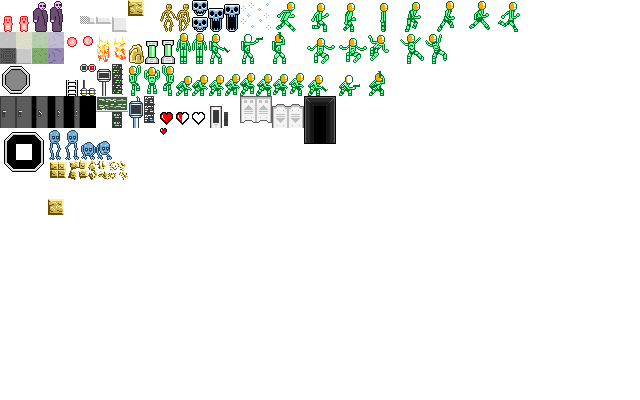
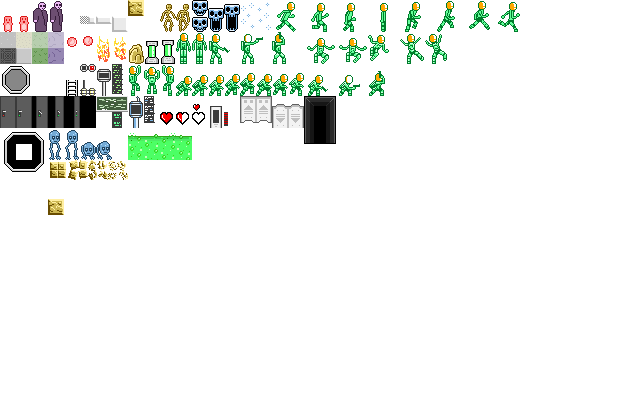
added 'zone' entities, lava sprites

Changed region(s): [[0.1875, 0.33, 0.3125, 0.42]]

diff --git a/decorations.py b/decorations.py
@@ -6,7 +6,7 @@ ALL_DECORATIONS = {}  # dec_id -> lambda(() -> Decoration)
 
 def init_decorations():
     print("initializing decorations...")
-    ALL_DECORATIONS["lightbulb"] = lambda: LightEmittingDecoration(0, 0, "lightbulb", images.LIGHT_BULB, luminosity=255, light_radius=128)
+    ALL_DECORATIONS["lightbulb"] = lambda: LightEmittingDecoration(0, 0, "lightbulb", images.LIGHT_BULB, light_radius=160)
     ALL_DECORATIONS["wire_vert"] = lambda: Decoration(0, 0, "wire_vert", images.WIRE_VERTICAL)
     ALL_DECORATIONS["chalkboard"] = lambda: Decoration(0, 0, "chalkboard", images.CHALKBOARD)
     ALL_DECORATIONS["ground_stone"] = lambda: Ground(0, 0, "ground_stone", images.STONE_GROUND)
@@ -15,6 +15,8 @@ def init_decorations():
     ALL_DECORATIONS["ground_purple"] = lambda: Ground(0, 0, "ground_purple", images.PURPLE_GROUND)
     ALL_DECORATIONS["ground_wall"] = lambda: Ground(0, 0, "ground_wall", images.WALL_GROUND)
     ALL_DECORATIONS["ground_dark"] = lambda: Ground(0, 0, "ground_dark", images.DARK_GROUND)
+    ALL_DECORATIONS["acid_full"] = lambda: LightEmittingDecoration(0, 0, "acid_full", images.ACID_FULL, light_radius=64)
+    ALL_DECORATIONS["acid_top"] = lambda: LightEmittingDecoration(0, 0, "acid_top", images.ACID_TOP_HALF, light_radius=64)
 
 
 def get_decoration(dec_id):
@@ -46,21 +48,17 @@ class Decoration(entities.Entity):
 class LightEmittingDecoration(Decoration):
     """A decoration that emits light. Should never move."""
 
-    def __init__(self, x, y, dec_id, animation, luminosity, light_radius):
+    def __init__(self, x, y, dec_id, animation, light_radius):
         Decoration.__init__(self, x, y, dec_id, animation)
-        self._luminosity = luminosity  # brightness level from 0 to 255
-        self.radius = light_radius  # radius in pixels
+        self.radius = light_radius      # radius in pixels
         self.categories.update(["light_source"])
 
     def light_profile(self):
         """returns: integers (x, y, luminosity, radius), or None if luminosity
             or radius is zero
         """
-        if self._luminosity > 0 and self.radius > 0:
-            pos = self.center()
-            return (pos[0], pos[1], self._luminosity, self.radius)
-        else:
-            return None
+        pos = self.center()
+        return (pos[0], pos[1], 255, self.radius)
 
 
 class Ground(Decoration):

diff --git a/entities.py b/entities.py
@@ -566,6 +566,53 @@ class ReferenceEntity(Entity):
             pygame.draw.rect(screen, (100, 100, 255), self.get_rect().move(*offset), 2)
 
 
+class Zone(Entity):
+    """Invisible area that performs some effect when actors enter"""
+    def __init__(self, x, y, w, h):
+        Entity.__init__(self, x, y, w, h)
+        self.categories.update(["zone"])
+        self.debug_color = (125, 255, 125)
+        self.actors_inside = {}
+
+    def sprite(self):
+        return None
+
+    def draw(self, screen, offset=(0, 0), modifier=None):
+        key = "zone_debug_overlay:" + str(self.size()) + "_" + str(self.debug_color)
+        cached_img = images.get_cached_image(key)
+        if cached_img is None:
+            cached_img = pygame.Surface(self.size(), pygame.SRCALPHA)
+            cached_img.set_alpha(128)
+            cached_img.fill(self.debug_color)
+            images.put_cached_image(key, cached_img)
+        dest = (self.get_x() + offset[0], self.get_y() + offset[1])
+        screen.blit(cached_img, dest)
+
+    def update(self, input_state, world):
+        current_actors = set(world.get_entities_in_rect(self.get_rect(), category="actor"))
+        actors_last_frame = self.actors_inside
+
+        for actor in current_actors:
+            if actor not in actors_last_frame:
+                self.actor_entered(actor, world)
+            else:
+                self.actor_remains(actor, world)
+        for actor in actors_last_frame:
+            if actor not in current_actors:
+                self.actor_left(actor, world)
+
+        self.actors_inside = current_actors
+
+    def actor_entered(self, actor, world):
+        print("actor entered zone: ", actor)
+
+    def actor_left(self, actor, world):
+        print("actor left zone: ", actor)
+
+    def actor_remains(self, actor, world):
+        pass
+
+
 def _safe_remove(item, collection, print_err=False):
     try:
         collection.remove(item)
@@ -700,7 +747,7 @@ class EntityCollection:
 _INVALIDS = set()
 _VALID_CATEGORIES = {"ground", "actor", "enemy", "decoration", "terminal", "puzzle_terminal",
                      "health_machine", "wall", "overlay", "player", "interactable", "light_source",
-                     "level_door", "door"}
+                     "level_door", "door", "zone"}
 
 
 def validate_category(category):

diff --git a/world.py b/world.py
@@ -74,7 +74,7 @@ class Chunk:
             screen_pos = cool_math.add(self.xy(), offset)
             screen.blit(cache_img, screen_pos)
 
-        for e in self.entities.get_all(not_category=["ground", "wall", "actor", "overlay"]):
+        for e in self.entities.get_all(not_category=["ground", "wall", "actor", "overlay", "zone"]):
             e.draw(screen, offset)
 
     def draw_actors(self, screen, offset):
@@ -121,6 +121,9 @@ class Chunk:
                 if hasattr(thing, 'radius') and thing.radius > 2:
                     center = cool_math.add(thing.center(), offset)
                     pygame.draw.circle(screen, images.RAINBOW, center, thing.radius, 2)
+
+            for zone in self.entities.get_all(category="zone"):
+                zone.draw(screen, offset)
 
     def __contains__(self, entity):
         return entity in self.entities

diff --git a/images.py b/images.py
@@ -179,6 +179,8 @@ BLAST_DOOR_BOTTOM   = create("blast_door_bottom", [R(272, 96, 32, 32)])
 BLAST_DOOR_BKGR     = create("blast_door_background", [R(304, 96, 32, 48)])
 BREAKABLE_WALL      = create("breakable_wall", [R(128, 0, 16, 16)])
 BREAKABLE_WALL_ANIM = create("breakable_wall_animation", [R(48 + i*20, 160, 20, 20) for i in range(0, 4)], tpf=4)
+ACID_FULL           = create("acid_full", [R(128 + i*16, 144, 16, 16) for i in range(0, 4)])
+ACID_TOP_HALF       = create("acid_top_half", [R(128 + i*16, 128, 16, 16) for i in range(0, 4)])
 
 PLAYER_IDLE         = create("player_idle", [R(176, 32, 16, 32), R(192, 32, 16, 32)])
 PLAYER_GUN          = create("player_gun", [R(208 + 32*i, 32, 24, 32) for i in range(0, 3)], tpf=10)

diff --git a/levels.py b/levels.py
@@ -189,6 +189,11 @@ class Level01(Level):
     def build_refs(self, refs, world):
         ref_items = list()
 
+        lava = self.fetch_ref("lava_zone_1", entities.Zone(0, 0, 64, 48), refs)
+        #lava.actor_entered = lambda x, y, z : print(y, " is in the zone")
+        lava.set_y(lava.get_y() + 48)
+        ref_items.append(lava)
+
         txt = "you shouldn't be here"
         ref_items.append(self.fetch_ref("terminal_1", entities.Terminal(0, 0, txt), refs))
 

diff --git a/huds.py b/huds.py
@@ -43,7 +43,9 @@ class HUD:
             decorations.get_decoration("ground_wall"),
             decorations.get_decoration("ground_dark"),
             entities.LevelEndDoor(0, 0, "level_2"),
-            entities.BreakableWall(0, 0)
+            entities.BreakableWall(0, 0),
+            decorations.get_decoration("acid_full"),
+            decorations.get_decoration("acid_top")
 
         ]
 

diff --git a/cave_defender.py b/cave_defender.py
@@ -16,7 +16,7 @@ pygame.init()
 
 pygame.display.set_caption("HATE")
 pygame.display.set_icon(images.get_window_icon())
-screen = pygame.display.set_mode((gs.WIDTH, gs.HEIGHT), pygame.RESIZABLE)
+screen = pygame.display.set_mode((gs.WIDTH, gs.HEIGHT), pygame.DOUBLEBUF)
 
 sounds.init_sounds()
 # sounds.play_song(sounds.SONG_CREEPY, loops=-1)
